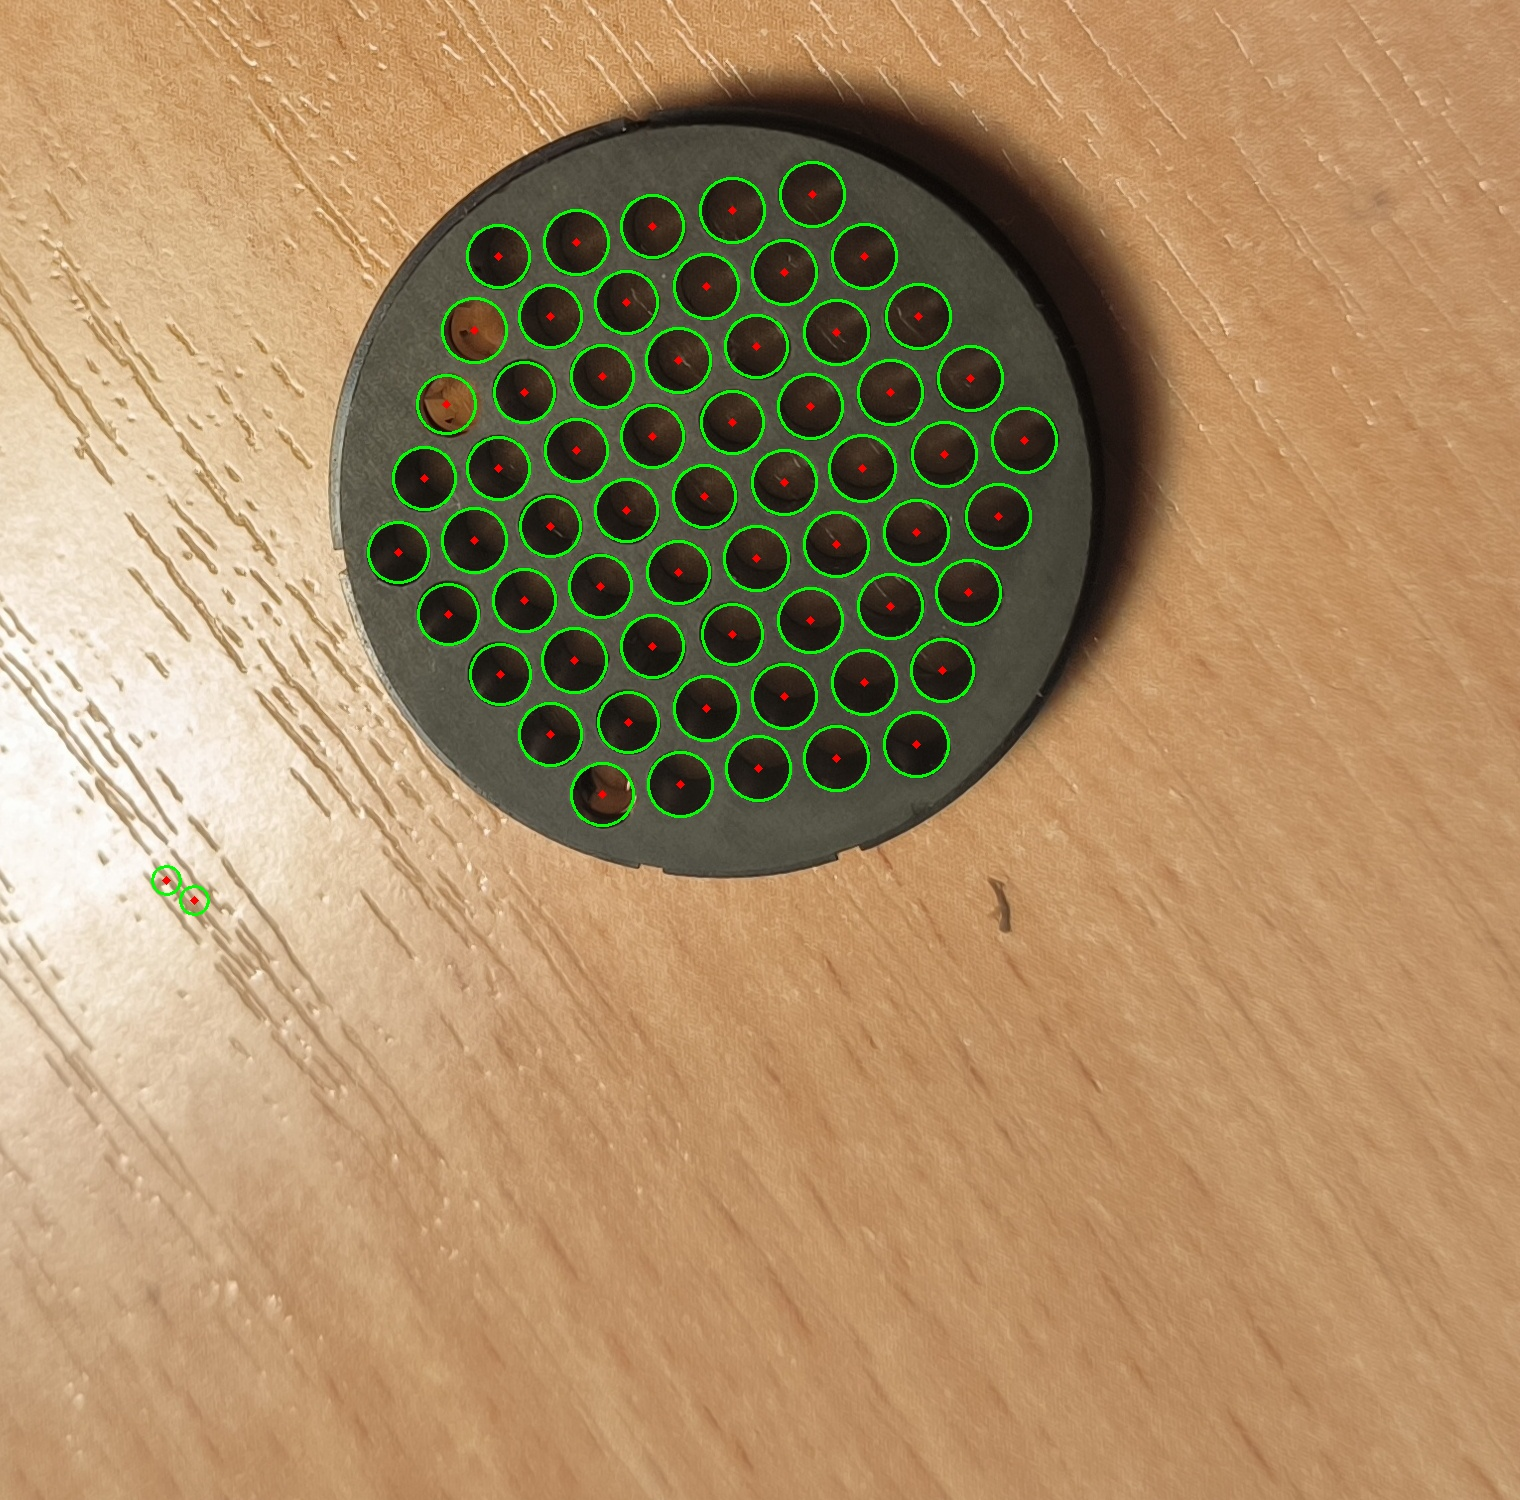
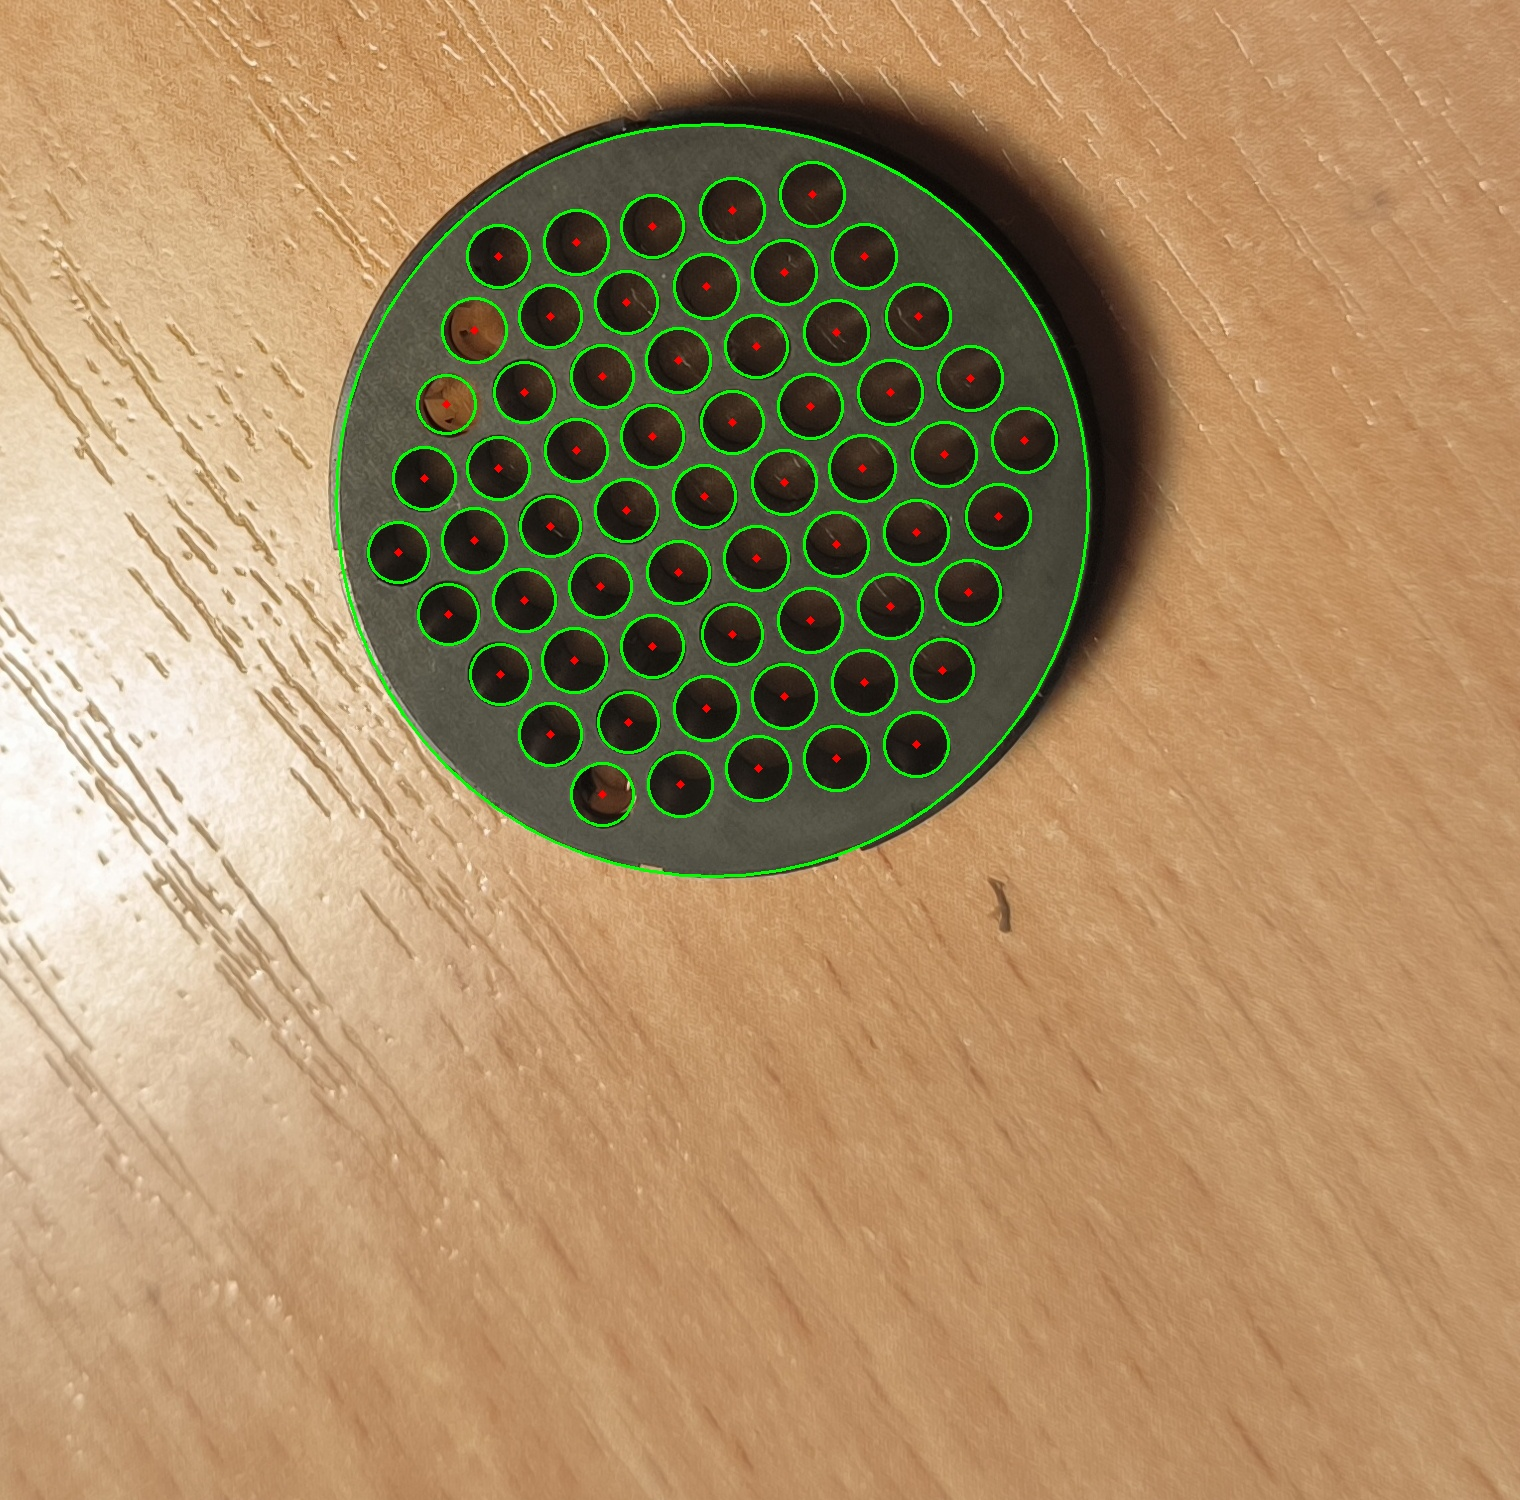
need calib

diff --git a/main.py b/main.py
@@ -3,6 +3,10 @@ import cv2
 import numpy as np
 import matplotlib.pyplot as plt
 
+def check_in(c, x, y, R):
+    if ((c[0].item() - x.item())**2 + (c[1].item() - y.item())**2) <= R.item()**2:
+        return True
+    return False
 
 # Параметры для функции HoughCircles
 dp = 0.7                # Параметр разрешения аккумуляторного массива
@@ -19,18 +23,46 @@ for ims in imgs:
     img = cv2.imread(input_im+ims)
     gray = cv2.cvtColor(img, cv2.COLOR_BGR2GRAY)
     gray_blurred = cv2.medianBlur(gray, 23)
-    circles = cv2.HoughCircles(gray_blurred, cv2.HOUGH_GRADIENT, dp, minDist,
+
+
+
+    circles1 = cv2.HoughCircles(gray_blurred, cv2.HOUGH_GRADIENT, dp, minDist,
                                param1=param1, param2=param2,
                                minRadius=minRadius, maxRadius=maxRadius)
 
+    circlesSNC = cv2.HoughCircles(gray_blurred, cv2.HOUGH_GRADIENT, dp+0.4, minDist+500,
+                               param1=param1+10, param2=param2+30,
+                               minRadius=minRadius+150, maxRadius=maxRadius+450)
+
+
     img_circles = img.copy()
 
-    if circles is not None:
+    mainSNCx, mainSNCy = 0, 0
+    mainRad = 0
+    if circlesSNC is not None:
+        circlesSNC = np.uint16(np.around(circlesSNC))
+        # print(circlesSNC)
+        # for circles in circlesSNC[0, :]:
+        #     center = (circles[0], circles[1])
+        #     radius = circles[2]
+        #     cv2.circle(img_circles, center, radius, (0, 255, 0), 2)
+        center = (circlesSNC[0][0][0], circlesSNC[0][0][1])
+        radius = circlesSNC[0][0][2]
+        mainSNCx = center[0]
+        mainSNCy = center[1]
+        mainRad = radius
+        cv2.circle(img_circles, center, radius, (0, 255, 0), 2)
+    else:
+        print("Кабель не найден")
+
+    if circles1 is not None:
         # Округление координат центров и радиусов до целых чисел
-        circles = np.uint16(np.around(circles))
+        circles = np.uint16(np.around(circles1))
         for circle in circles[0, :]:
-            center = (circle[0], circle[1])  # Координаты центра
-            radius = circle[2]              # Радиус
+            center = (circle[0], circle[1])
+            if not (check_in(center, mainSNCx, mainSNCy, mainRad)):
+                continue
+            radius = circle[2]
             # Рисование контура круга
             cv2.circle(img_circles, center, radius, (0, 255, 0), 2)
             # Рисование центра круга
